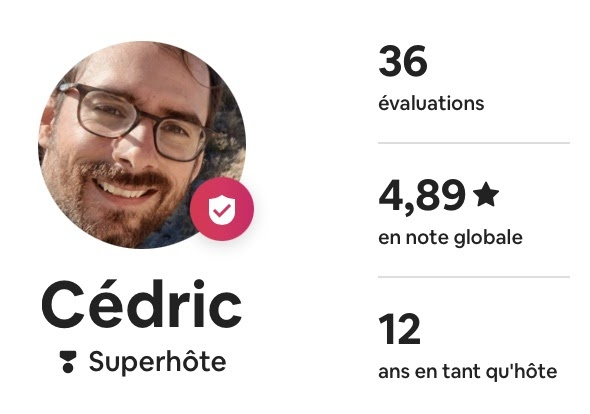
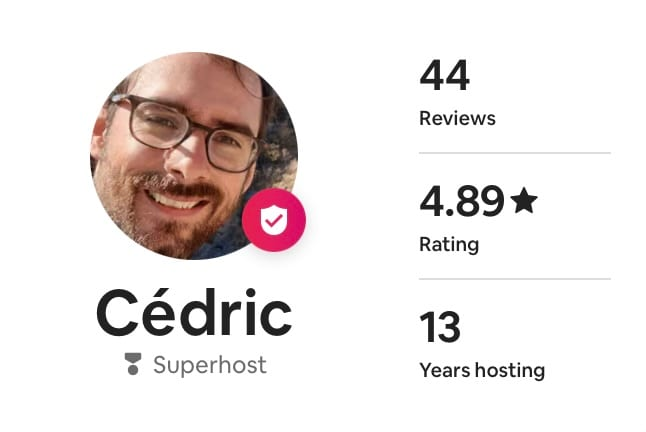
feat: avis Alberto (parking) + Florence (studio), notation Airbnb eco-studio, image Superhost (#35)
* feat(testimonials): avis Alberto (parking) et Florence (studio) en 7 langues

* feat(eco-studio): résumé de notation Airbnb sous le CTA (7 langues)

* chore(superhost): mise à jour de l'image (44 avis, note 4,89, 13 ans)

diff --git a/src/assets/css/styles.css b/src/assets/css/styles.css
@@ -1528,6 +1528,11 @@ input.form-input[type="date"] {
   margin-top: var(--spacing-3xl);
 }
 
+/* Bloc résumé des notes Airbnb (page eco-studio) : espace sous le CTA */
+.eco-rating-summary {
+  margin-top: calc(var(--spacing-3xl) + var(--spacing-md));
+}
+
 .mb-4 {
   margin-bottom: var(--spacing-lg);
 }
